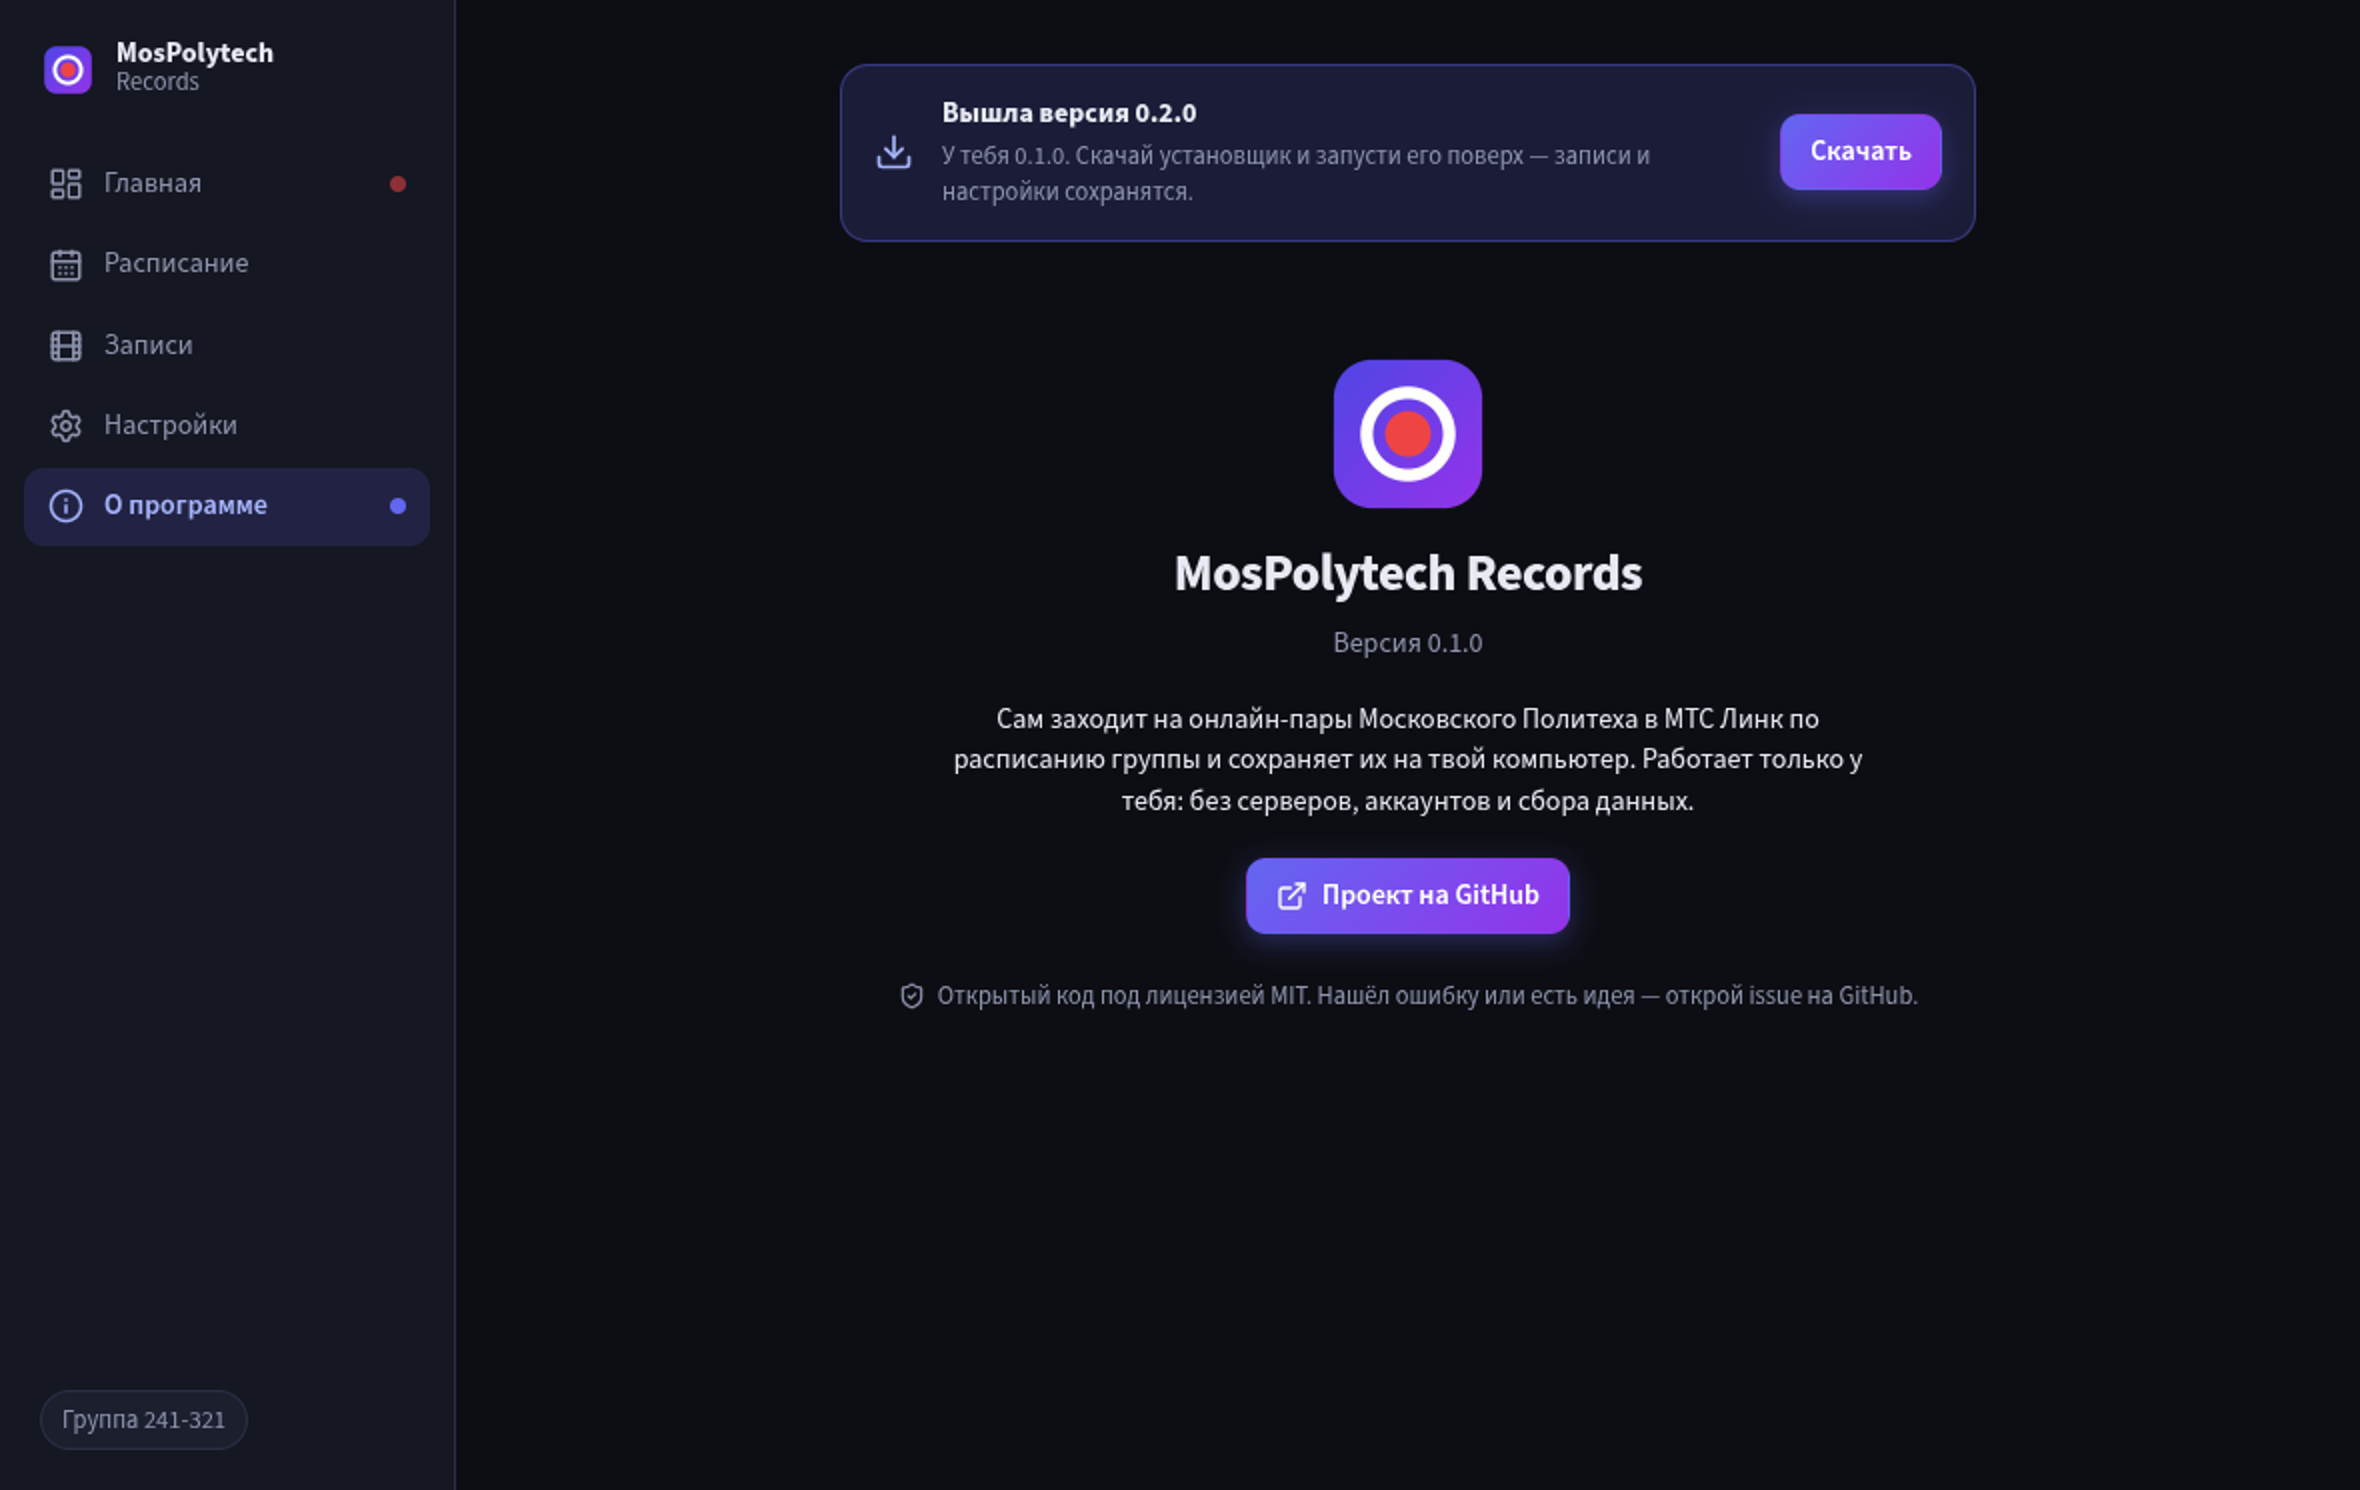
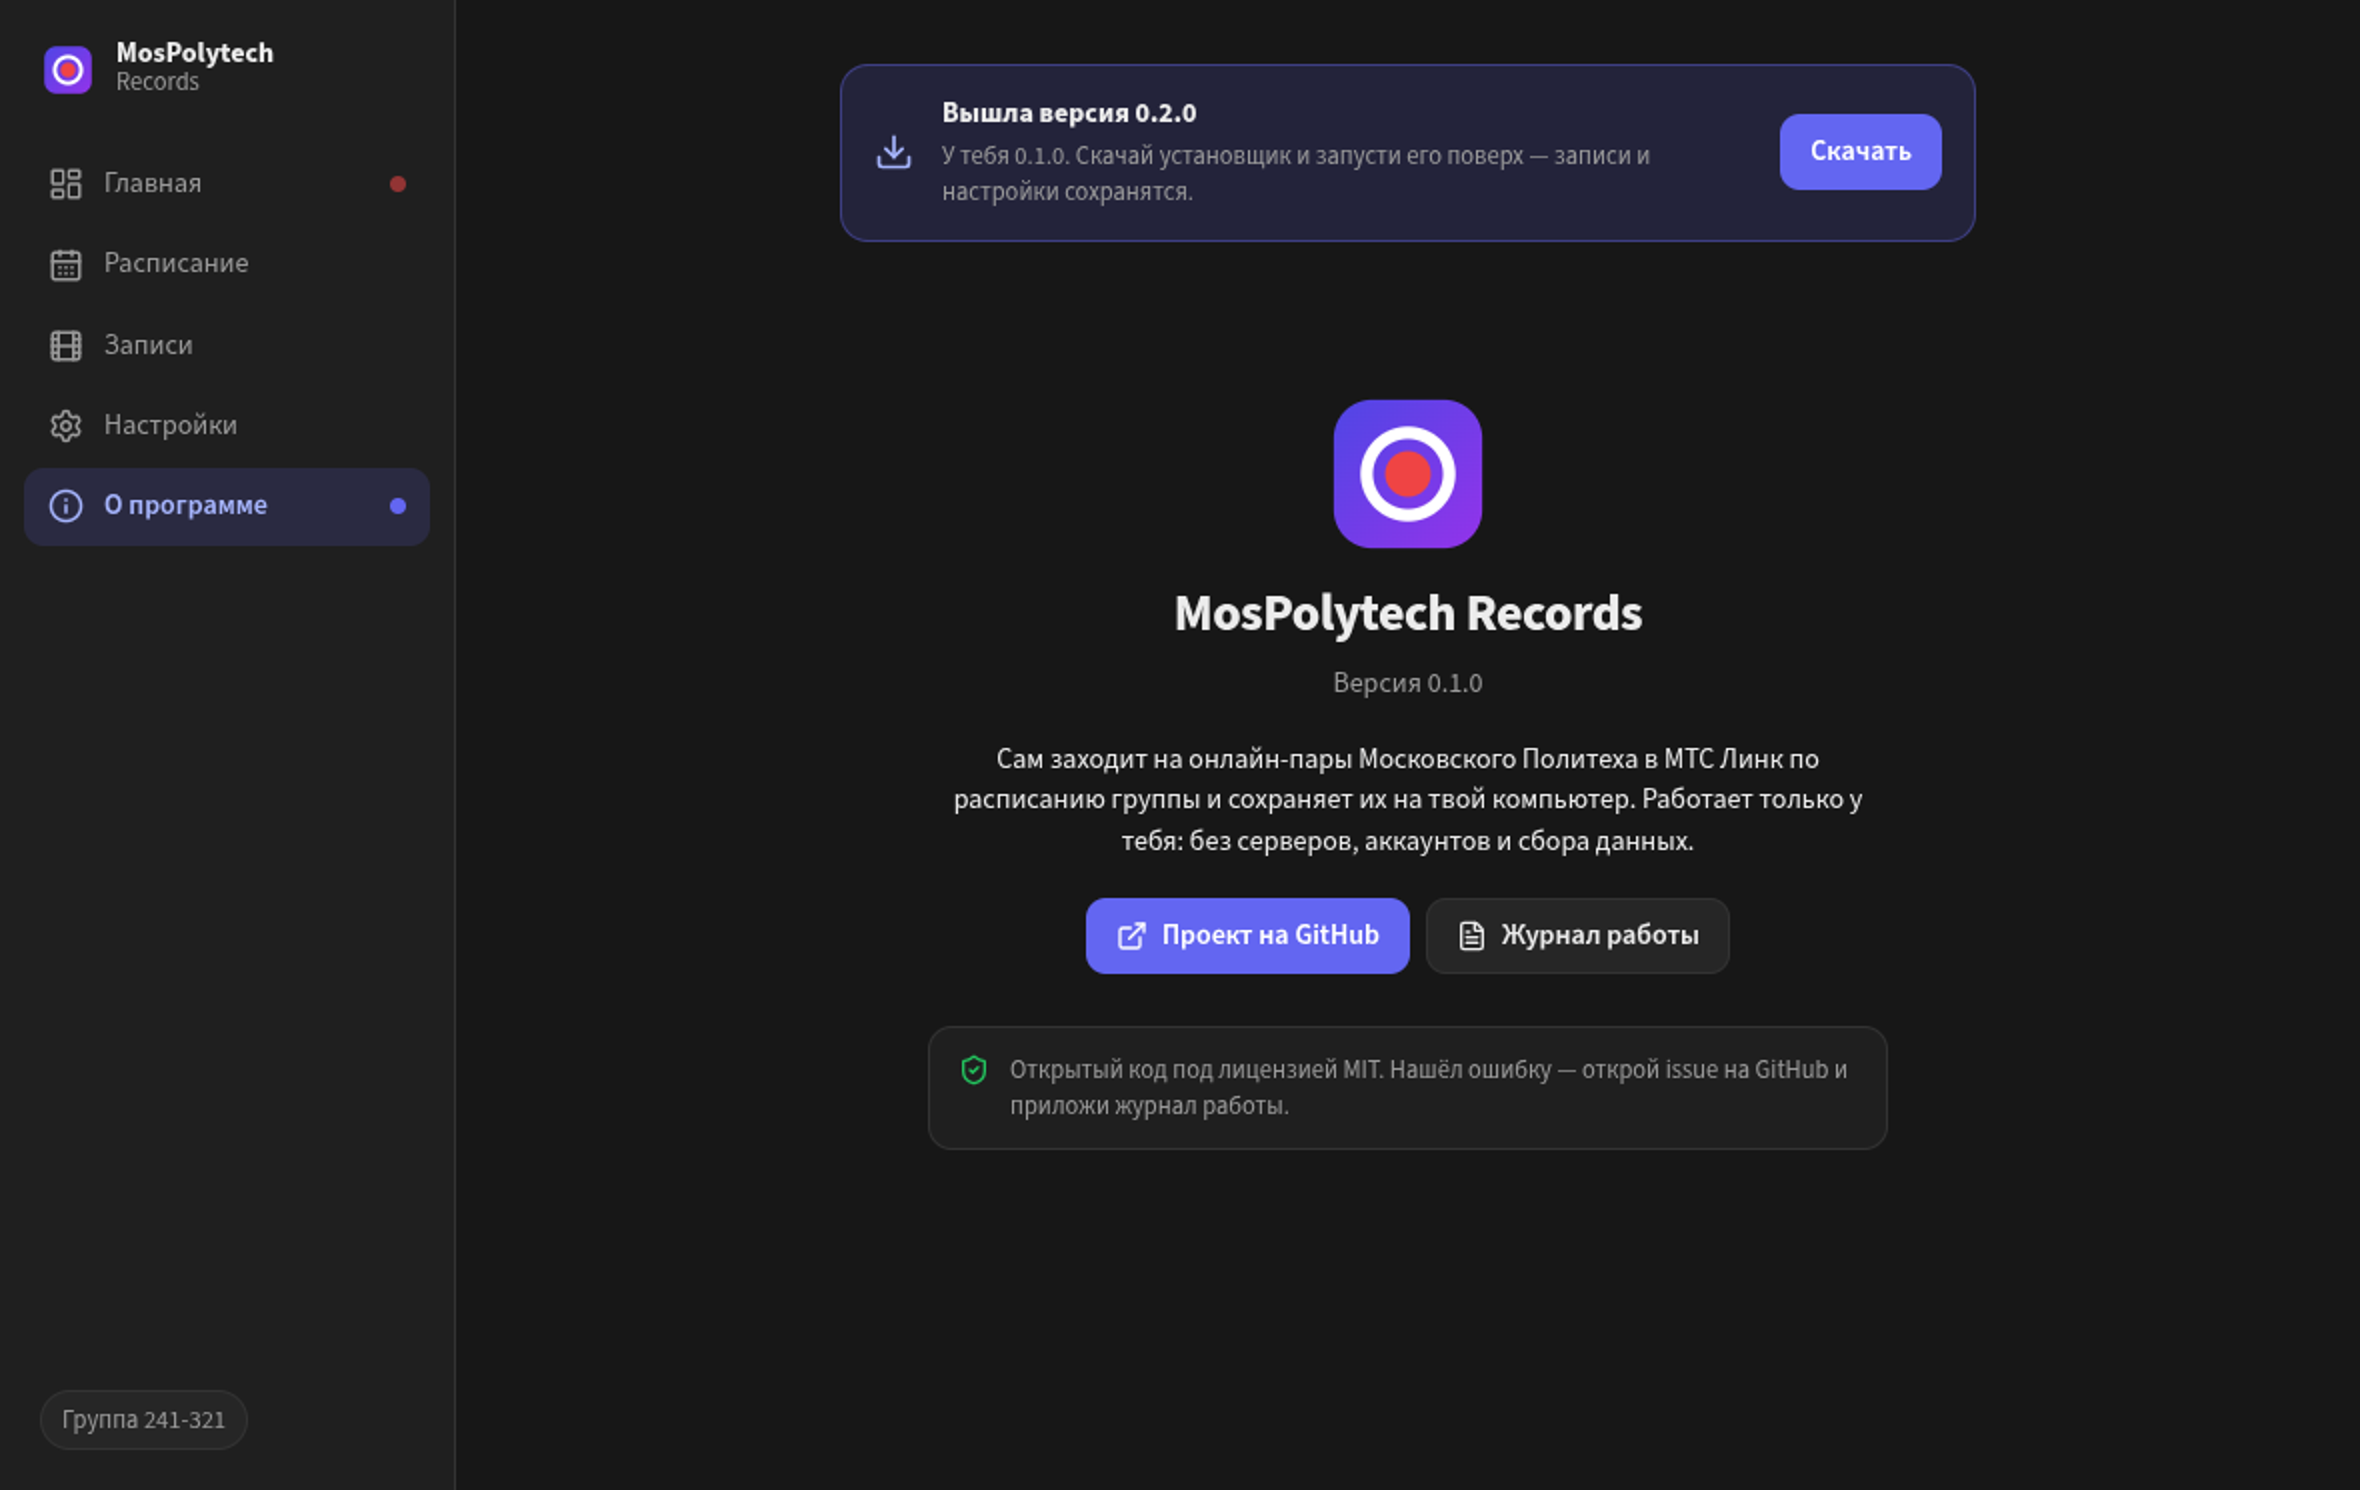
docs: refresh screenshots and gray site palette

Changed region(s): [[0.3712, 0.2161, 0.8042, 0.6792], [0.4021, 0.7101, 0.7733, 0.7718], [0.7424, 0.0617, 0.8352, 0.1544]]

diff --git a/docs/index.html b/docs/index.html
@@ -8,7 +8,7 @@
   <meta name="keywords" content="запись лекций, запись пар, Московский Политех, Мосполитех, МосПолитех, MosPolytech, МТС Линк, вебинар, расписание, rasp.dmami.ru, mospolytech-records" />
   <link rel="canonical" href="https://set-night.github.io/mospolytech-records/" />
   <link rel="icon" type="image/png" href="icon.png" />
-  <meta name="theme-color" content="#0f1020" />
+  <meta name="theme-color" content="#171717" />
 
   <meta property="og:type" content="website" />
   <meta property="og:locale" content="ru_RU" />
@@ -68,30 +68,32 @@
 
   <style>
     :root {
-      --bg: #f7f7fb;
+      --bg: #f7f7f7;
       --surface: #ffffff;
-      --text: #15162b;
-      --muted: #5b5d7a;
-      --border: #e3e3f0;
+      --text: #1a1a1a;
+      --muted: #6b6b6b;
+      --border: #e2e2e2;
       --accent: #6366f1;
-      --accent-2: #9333ea;
+      --accent-text: #4f46e5;
       --on-accent: #ffffff;
     }
     @media (prefers-color-scheme: dark) {
       :root:not([data-theme="light"]) {
-        --bg: #0f1020;
-        --surface: #181a30;
-        --text: #ececf8;
-        --muted: #a2a4c3;
-        --border: #2a2c48;
+        --bg: #171717;
+        --surface: #1f1f1f;
+        --text: #ececec;
+        --muted: #9a9a9a;
+        --border: #333333;
+        --accent-text: #a5b4fc;
       }
     }
     :root[data-theme="dark"] {
-      --bg: #0f1020;
-      --surface: #181a30;
-      --text: #ececf8;
-      --muted: #a2a4c3;
-      --border: #2a2c48;
+      --bg: #171717;
+      --surface: #1f1f1f;
+      --text: #ececec;
+      --muted: #9a9a9a;
+      --border: #333333;
+      --accent-text: #a5b4fc;
     }
     * { box-sizing: border-box; }
     body {
@@ -100,15 +102,12 @@
       color: var(--text);
       font: 17px/1.6 system-ui, -apple-system, "Segoe UI", Roboto, sans-serif;
     }
-    a { color: var(--accent); }
+    a { color: var(--accent-text); }
     .wrap { max-width: 1080px; margin: 0 auto; padding: 0 16px; }
     header.hero { text-align: center; padding: 64px 0 32px; }
     .hero img.logo { width: 96px; height: 96px; }
     h1 { font-size: clamp(30px, 5vw, 48px); line-height: 1.15; margin: 16px 0 12px; letter-spacing: -0.02em; }
-    h1 span {
-      background: linear-gradient(90deg, var(--accent), var(--accent-2));
-      -webkit-background-clip: text; background-clip: text; color: transparent;
-    }
+    h1 span { color: var(--accent-text); }
     .lead { font-size: 19px; color: var(--muted); max-width: 680px; margin: 0 auto 28px; }
     .downloads { display: flex; flex-wrap: wrap; gap: 10px; justify-content: center; }
     .btn {
@@ -117,7 +116,7 @@
       border: 1px solid var(--border); background: var(--surface); color: var(--text);
     }
     .btn.primary {
-      background: linear-gradient(90deg, var(--accent), var(--accent-2));
+      background: var(--accent);
       color: var(--on-accent); border-color: transparent;
     }
     .btn small { font-weight: 400; opacity: 0.8; }
@@ -125,7 +124,7 @@
     .shot {
       display: block; width: 100%; height: auto; margin: 40px auto 0;
       border-radius: 14px; border: 1px solid var(--border);
-      box-shadow: 0 20px 60px rgba(40, 30, 120, 0.25);
+      box-shadow: 0 20px 60px rgba(0, 0, 0, 0.25);
     }
     section { padding: 48px 0; }
     h2 { font-size: 28px; margin: 0 0 20px; letter-spacing: -0.01em; }

diff --git a/README.md b/README.md
@@ -11,7 +11,7 @@
 на ваш компьютер. Никаких серверов, аккаунтов и подписок.
 
 [![Последний релиз](https://img.shields.io/github/v/release/set-night/mospolytech-records?label=%D0%B2%D0%B5%D1%80%D1%81%D0%B8%D1%8F&color=6366f1)](https://github.com/set-night/mospolytech-records/releases/latest)
-[![Скачивания](https://img.shields.io/github/downloads/set-night/mospolytech-records/total?label=%D1%81%D0%BA%D0%B0%D1%87%D0%B8%D0%B2%D0%B0%D0%BD%D0%B8%D0%B9&color=9333ea)](https://github.com/set-night/mospolytech-records/releases)
+[![Скачивания](https://img.shields.io/github/downloads/set-night/mospolytech-records/total?label=%D1%81%D0%BA%D0%B0%D1%87%D0%B8%D0%B2%D0%B0%D0%BD%D0%B8%D0%B9&color=555555)](https://github.com/set-night/mospolytech-records/releases)
 [![CI](https://img.shields.io/github/actions/workflow/status/set-night/mospolytech-records/ci.yml?branch=main&label=CI)](https://github.com/set-night/mospolytech-records/actions/workflows/ci.yml)
 [![Лицензия MIT](https://img.shields.io/github/license/set-night/mospolytech-records?color=22c55e)](LICENSE)
 
